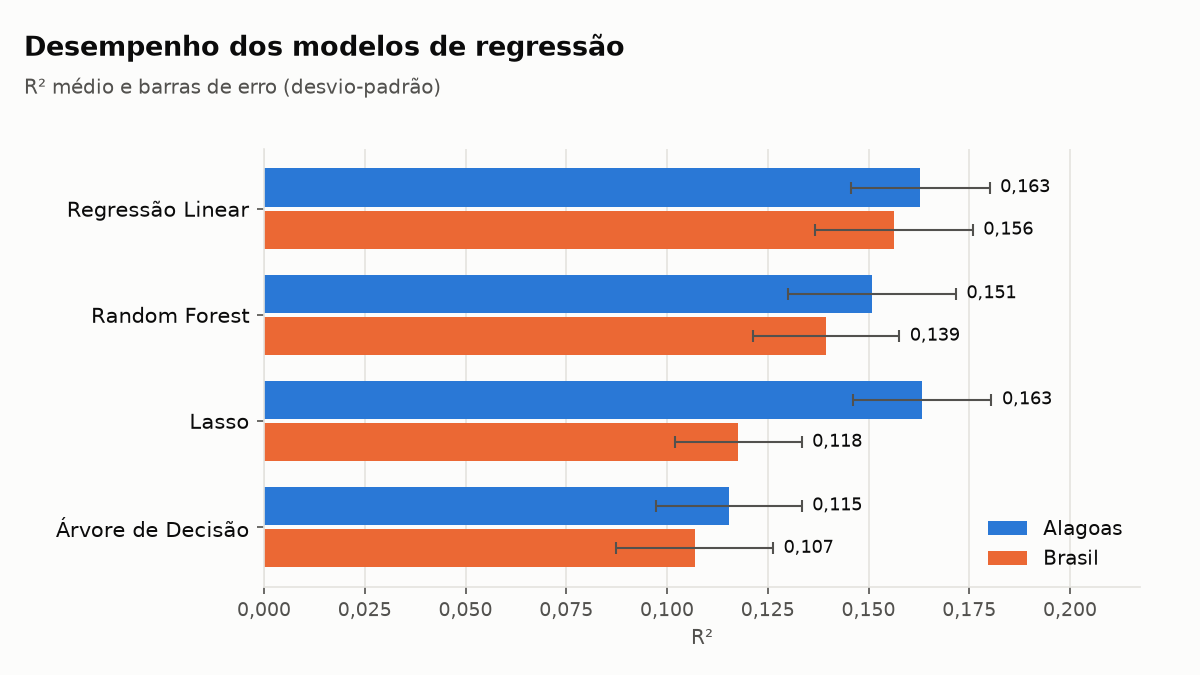
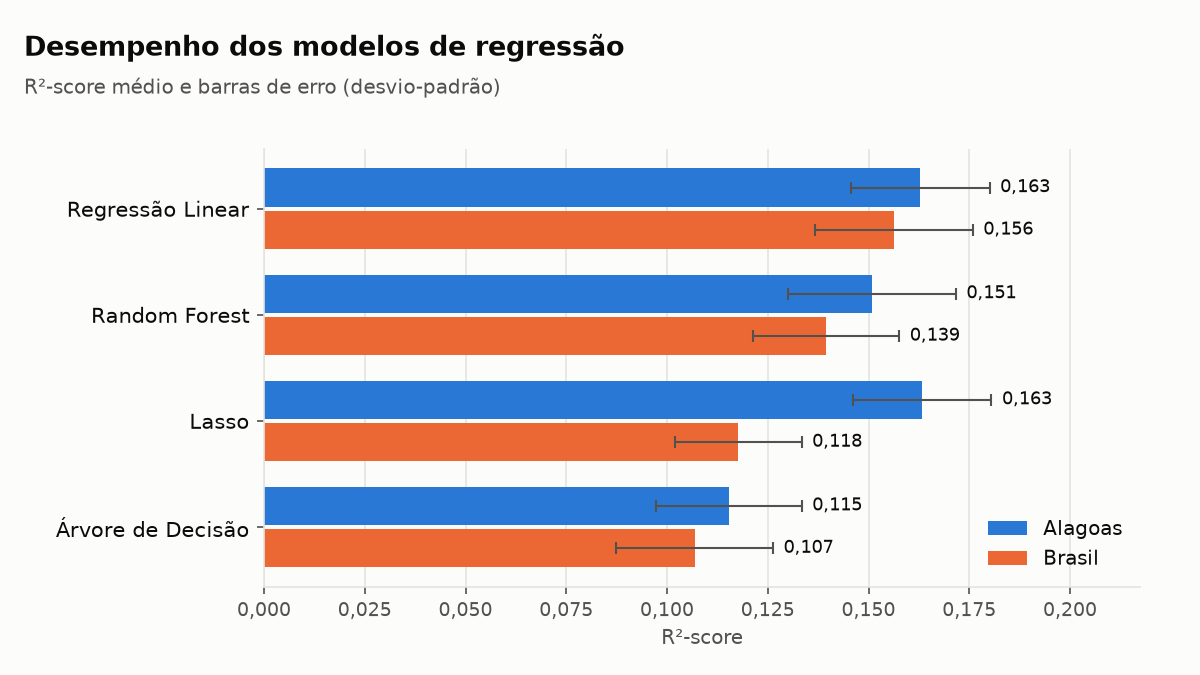
Update figures.

Changed region(s): [[0.0308, 0.1244, 0.4317, 0.1556], [0.555, 0.9333, 0.6167, 0.9644]]

diff --git a/src/analysis/animations.py b/src/analysis/animations.py
@@ -240,12 +240,12 @@ def animate_model_comparison(tables_dir: Path = EXPERIMENTS_TABLES_DIR,
     fig, ax = _new_figure()
     fig.subplots_adjust(left=0.22, right=0.95, top=0.78, bottom=0.13)
     _title(fig, "Desempenho dos modelos de regressão",
-           "R² médio e barras de erro (desvio-padrão)")
+           "R²-score médio e barras de erro (desvio-padrão)")
 
     x_max = max(m["cv_r2_mean"].max() + m["cv_r2_std"].max()
                 for m in metrics.values()) * 1.18
     ax.set_xlim(0, x_max)
-    ax.set_xlabel("R²", color=TEXT_SECONDARY, fontsize=9.5)
+    ax.set_xlabel("R²-score", color=TEXT_SECONDARY, fontsize=9.5)
     ax.xaxis.set_major_formatter(
         plt.FuncFormatter(lambda v, _: f"{v:.3f}".replace(".", ",")))
     ax.grid(axis="y", visible=False)
@@ -328,14 +328,14 @@ def animate_question_importance(tables_dir: Path = EXPERIMENTS_TABLES_DIR,
     fig, ax = _new_figure()
     fig.subplots_adjust(left=0.33, right=0.95, top=0.78, bottom=0.13)
     _title(fig, f"Fatores socioeconômicos que mais impactaram no {MODEL_LABELS.get(model, model)}",
-           f"Impacto de cada fator socioeconômico na obtenção da nota do unade usando {MODEL_LABELS.get(model, model)} (em %)")
+           f"Impacto de cada fator socioeconômico na obtenção da nota do ENADE com {MODEL_LABELS.get(model, model)} (em %)")
     x_max = union.to_numpy().max() * 1.2
     ax.set_xlim(0, x_max)
     ax.set_ylim(top_n - 0.4, -0.6)
     ax.set_yticks([])
     ax.spines["left"].set_visible(False)
     ax.grid(axis="y", visible=False)
-    ax.set_xlabel("% da importância total", color=TEXT_SECONDARY, fontsize=9.5)
+    ax.set_xlabel("Importância da variável (em %)", color=TEXT_SECONDARY, fontsize=9.5)
 
     bars = ax.barh(np.arange(top_n), np.zeros(top_n), height=0.68)
     names = [
